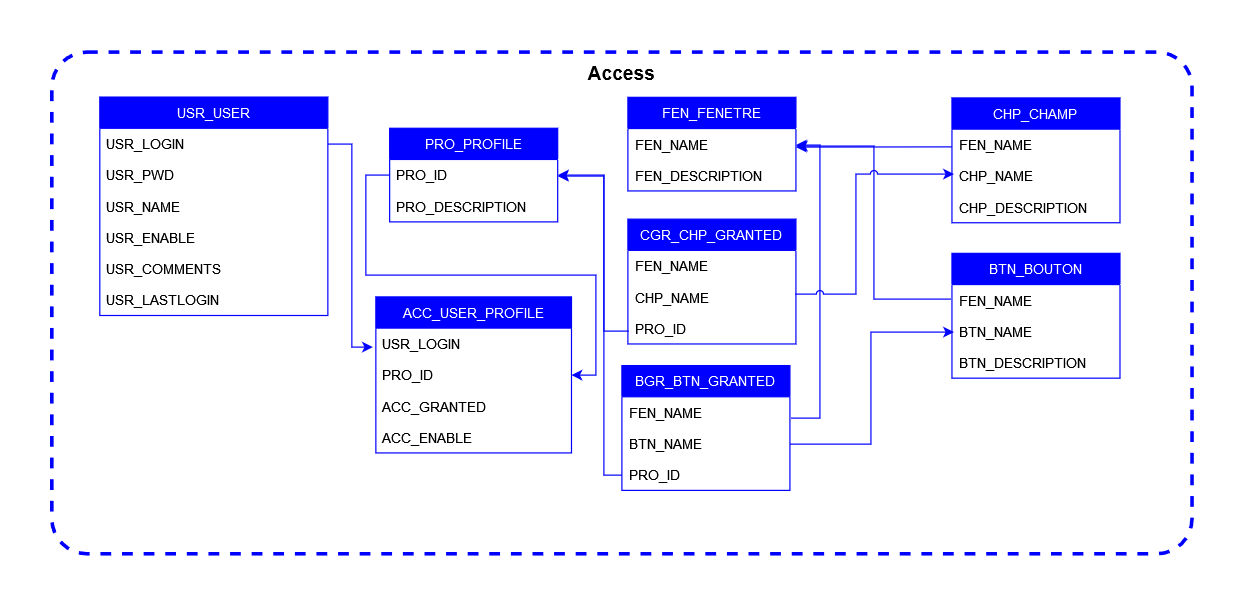
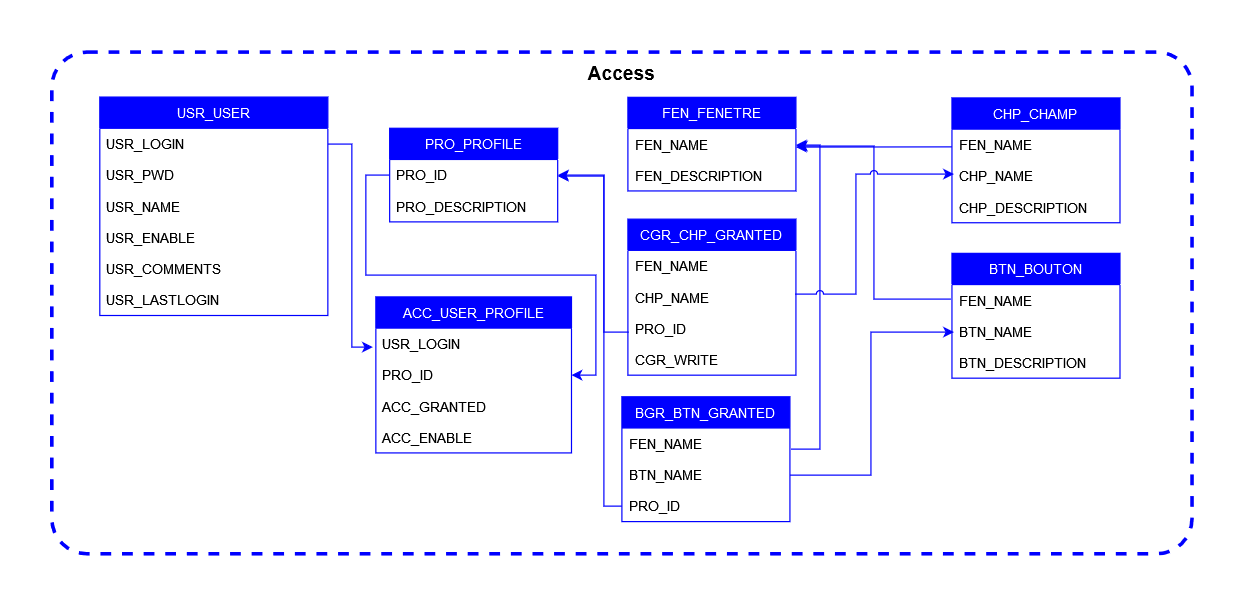
Ajout desription  accès et sécurité. Mise à jour diagramme

Changed region(s): [[0.4887, 0.5644, 0.7026, 0.7426], [0.4887, 0.7723, 0.6415, 0.8614], [0.6415, 0.7723, 0.7026, 0.802]]

diff --git a/docs/gui-model/gui-generalites.md b/docs/gui-model/gui-generalites.md
@@ -20,6 +20,19 @@ Parlant d'une interface de configuration et administration, il est nécessaire d
 
 ## Securité
 
+La connexion est gérée via une paire username/password, qui sont mémorisés dans la base de données (chiffrage du mot de passe bien sûr).
+
+Les utilisateurs sont groupés par profil, un profil étant l'équivalent d'un groupe. Les droits sont accordés à un groupe.
+
+## Droits d'accès
+
+Les droits d'accès sont gérés via :
+	- 3 tables de définition permettant de déclarer les fenêtres, boutons et champs
+	- 2 tables d'accès permettant de définir si un profil donné a accès à un bouton ou un champ. 
+	- Pour les champs, un drapeau permet de gérer l'autorisation de modification
+	
+Ceci permet de créer des profils de visualisation ou de mise à jour.
+
 ## Historisation
 
 La mise à jour de règles est systématiquement capturée par un journal qui permet d'identifier l'auteur et le moment d'une action. 
